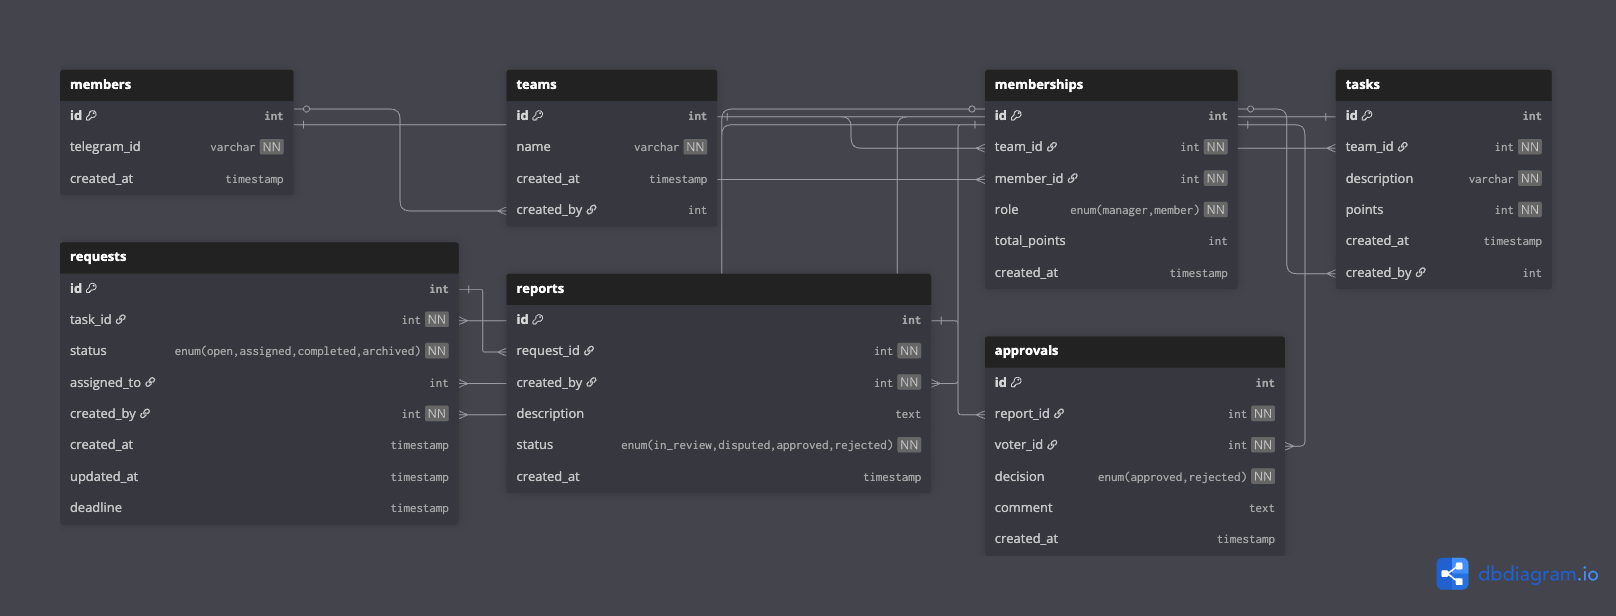
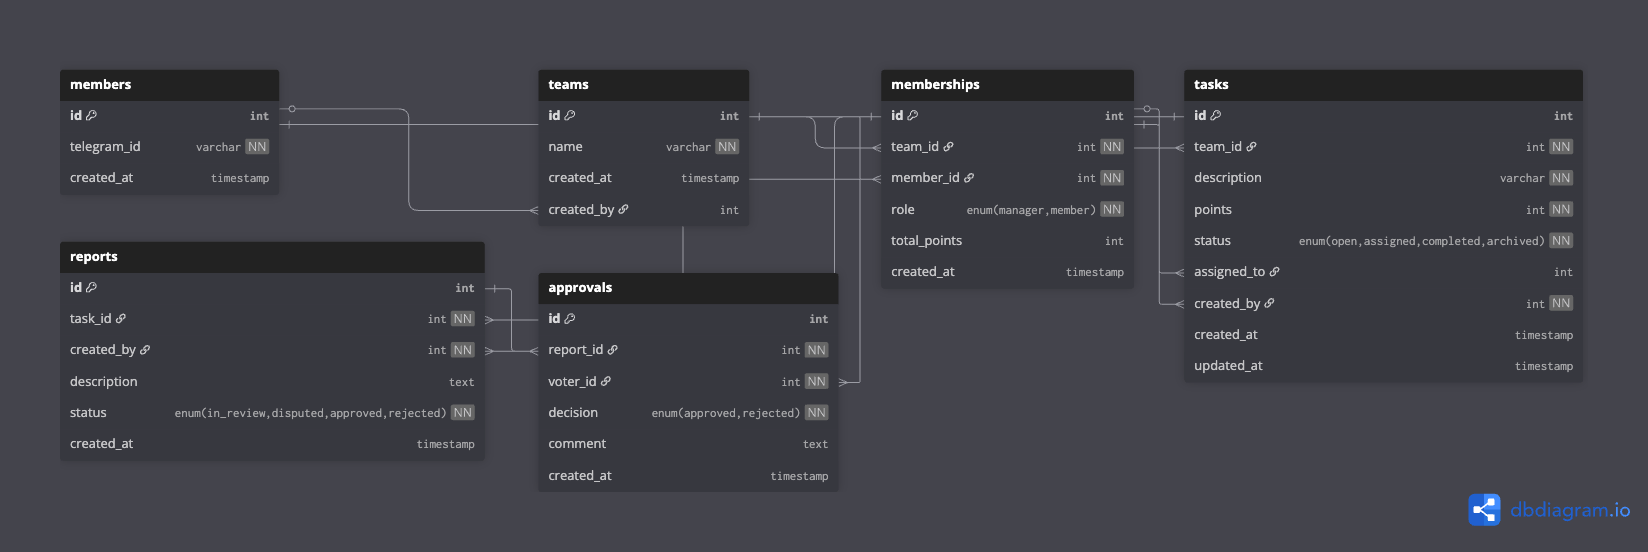
#26: Remove requests table

diff --git a/docs/ru/database.md b/docs/ru/database.md
@@ -12,25 +12,24 @@
 ![Диаграмма схемы данных](scheme.png)
 
 Диаграмма создана с помощью [dbdiagram.io](https://dbdiagram.io).
+
 Интерактивная версия доступна по [ссылке](https://dbdiagram.io/d/68ee44512e68d21b4161cdb3).
 
 ## 2. Сущности
 
-* **`members`** — Глобальный справочник пользователей системы.
+* **`members`** — Пользователи.
 
-* **`teams`** — Хранит команды, созданные пользователями.
+* **`teams`** — Команды.
 
 * **`memberships`** — Связывает пользователей (`members`) и команды (`teams`).
     - Уникальность пары (`team_id`, `member_id`) гарантирует, что пользователь не может вступить в одну команду дважды.
-* **`tasks`** — Задачи с определенным "весом" в баллах (`points`).
 
-* **`requests`** — Заявка на выполнение конкретной задачи.
-    - `deadline`: Крайний срок, используемый для логики уведомлений и автоматического назначения.
+* **`tasks`** — Задачи.
 
-* **`reports`** — Отчет о выполнении заявки.
-    - Уникальность `request_id` гарантирует, что на одну заявку может быть только один отчет.
+* **`reports`** — Отчёты о выполнении задач.
+    - Уникальность `task_id` гарантирует, что на одну задачу может быть только один отчет.
 
-* **`approvals`** — Голос участника за или против отчета.
+* **`approvals`** — Голоса участников за или против отчета.
     - Уникальность пары (`report_id`, `voter_id`) предотвращает повторное голосование.
 
 ## 3. Ключевые проектные решения
@@ -42,7 +41,7 @@
 - **Кэширование баллов**: Поле `memberships.total_points` — это намеренное использование денормализации. Оно кэширует
   баллы пользователя, чтобы избежать дорогостоящих вычислений в реальном времени.
 
-- **Разделенные поля статусов**: Статус заявки (`request`), например `open` или `completed`, отделен от статуса отчета (
+- **Разделенные поля статусов**: Статус задачи (`task`), например `open` или `completed`, отделен от статуса отчета (
   `report`), например `in_review` или `disputed`. Это правильно моделирует две разные машины состояний: одну для
   жизненного цикла задачи и другую для процесса её проверки.
 
@@ -53,7 +52,7 @@
 ```dbml
 Table members {
   id int [pk, increment]
-  telegram_id varchar [unique, not null, note: 'Идентификатор пользователя в Telegram']
+  telegram_id varchar [unique, not null]
   created_at timestamp [default: `now()`]
 }
 
@@ -68,10 +67,9 @@ Table memberships {
   id int [pk, increment]
   team_id int [ref: > teams.id, not null]
   member_id int [ref: > members.id, not null]
-  role enum ('manager', 'member') [not null]
+  role enum('manager', 'member') [not null]
   total_points int [default: 0]
   created_at timestamp [default: `now()`]
-  
   indexes {
     (team_id, member_id) [unique]
   }
@@ -81,28 +79,20 @@ Table tasks {
   id int [pk, increment]
   team_id int [ref: > teams.id, not null]
   description varchar [not null]
-  points int [not null, note: 'Вес задачи в баллах']
-  created_at timestamp [default: `now()`]
-  created_by int [ref: > memberships.id]
-}
-
-Table requests {
-  id int [pk, increment]
-  task_id int [ref: > tasks.id, not null]
-  status enum ('open', 'assigned', 'completed', 'archived') [not null, default: 'open']
-  assigned_to int [ref: > memberships.id, note: 'Может быть NULL, если заявка свободна']
+  points int [not null]
+  status enum('open', 'assigned', 'completed', 'archived') [not null, default: 'open']
+  assigned_to int [ref: > memberships.id]
   created_by int [ref: > memberships.id, not null]
   created_at timestamp [default: `now()`]
   updated_at timestamp
-  deadline timestamp
 }
 
 Table reports {
   id int [pk, increment]
-  request_id int [ref: > requests.id, not null, unique]
+  task_id int [ref: > tasks.id, not null, unique]
   created_by int [ref: > memberships.id, not null]
   description text
-  status enum ('in_review', 'disputed', 'approved', 'rejected') [not null, default: 'in_review']
+  status enum('in_review', 'disputed', 'approved', 'rejected') [not null, default: 'in_review']
   created_at timestamp [default: `now()`]
 }
 
@@ -110,10 +100,9 @@ Table approvals {
   id int [pk, increment]
   report_id int [ref: > reports.id, not null]
   voter_id int [ref: > memberships.id, not null]
-  decision enum ('approved', 'rejected') [not null]
+  decision enum('approved', 'rejected') [not null]
   comment text
   created_at timestamp [default: `now()`]
-  
   indexes {
     (report_id, voter_id) [unique]
   }
